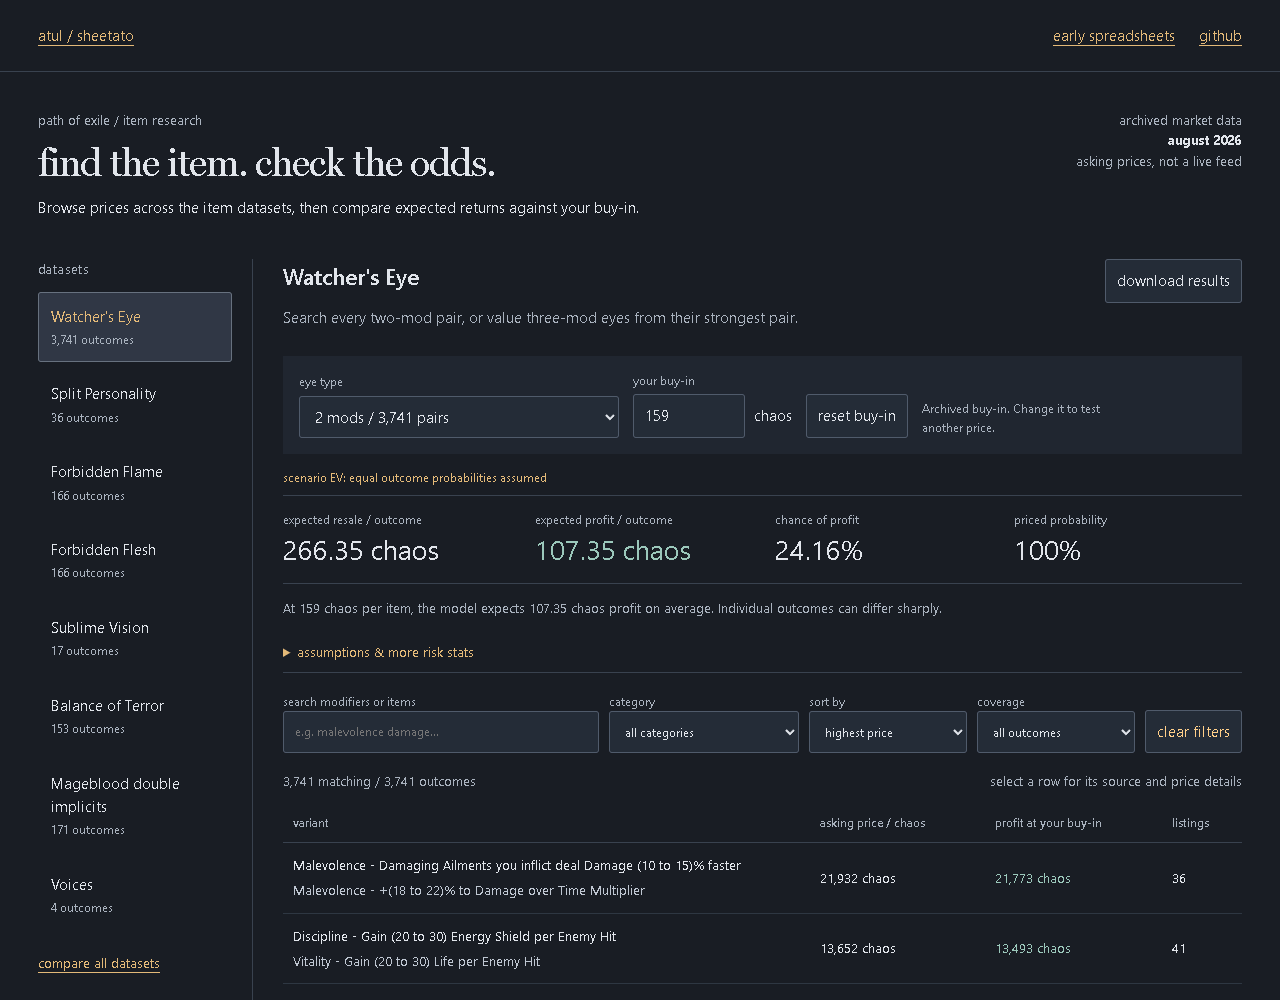
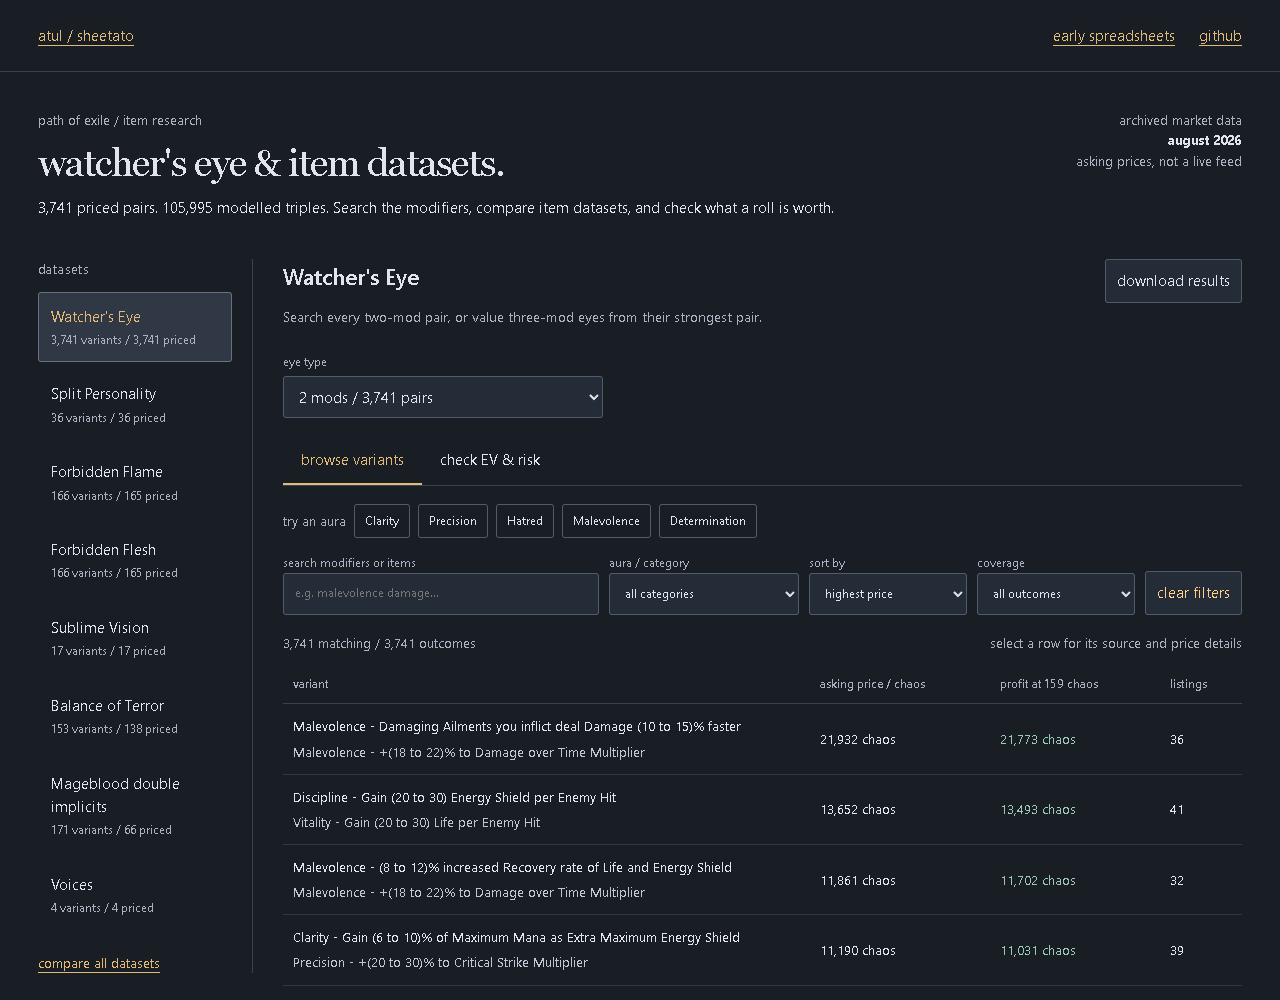
Make the project purpose and primary browsing workflow easier to find

diff --git a/examples/portfolio/index.html b/examples/portfolio/index.html
@@ -25,10 +25,10 @@
             <div class="heading">
                 <div>
                     <p class="eyebrow">path of exile / item research</p>
-                    <h1>find the item. check the odds.</h1>
+                    <h1>watcher's eye & item datasets.</h1>
                     <p>
-                        Browse prices across the item datasets, then compare
-                        expected returns against your buy-in.
+                        3,741 priced pairs. 105,995 modelled triples. Search the modifiers,
+                        compare item datasets, and check what a roll is worth.
                     </p>
                 </div>
                 <p class="archive">
@@ -55,7 +55,6 @@
                         </div>
                         <button id="export">download results</button>
                     </div>
-                    <div class="calculator">
                         <div id="mode-wrap">
                             <label for="mode">eye type</label
                             ><select id="mode">
@@ -67,6 +66,15 @@
                                 </option>
                             </select>
                         </div>
+                    <p id="error" role="alert"></p>
+                    <nav class="view-switch" aria-label="Dataset view">
+                        <button id="browse-view" aria-pressed="true">browse variants</button>
+                        <button id="risk-view" aria-pressed="false">check EV &amp; risk</button>
+                    </nav>
+                    <div id="risk-panel" hidden>
+                    <h3>what is one random outcome worth?</h3>
+                    <p class="help">Set your purchase price. Expected value (EV) is the average resale across all outcomes; expected profit subtracts your buy-in.</p>
+                    <div class="calculator">
                         <div>
                             <label for="buyin">your buy-in</label>
                             <div class="input-unit">
@@ -82,12 +90,11 @@
                         <button id="reset-cost">reset buy-in</button>
                         <p id="cost-note"></p>
                     </div>
-                    <p id="error" role="alert"></p>
                     <p id="model-label" class="model-label"></p>
                     <div id="metrics" class="metrics" aria-live="polite"></div>
                     <p id="interpretation"></p>
                     <details>
-                        <summary>assumptions & more risk stats</summary>
+                        <summary>probabilities, coverage & more risk stats</summary>
                         <p id="assumption"></p>
                         <div id="extra-stats"></div>
                         <p>
@@ -97,6 +104,9 @@
                             one-roll standard deviation, not annualised Sharpe.
                         </p>
                     </details>
+                    </div>
+                    <div id="browse-panel">
+                    <div id="quick-filters" aria-label="Try an aura"></div>
                     <div class="filters">
                         <label
                             >search modifiers or items<input
@@ -105,7 +115,7 @@
                                 placeholder="e.g. malevolence damage..."
                                 autocomplete="off" /></label
                         ><label
-                            >category<select id="group">
+                            >aura / category<select id="group">
                                 <option value="">all categories</option>
                             </select></label
                         ><label
@@ -142,7 +152,7 @@
                                     <th scope="col" id="price-heading">
                                         asking price
                                     </th>
-                                    <th scope="col">profit at your buy-in</th>
+                                    <th scope="col">profit at <span id="table-cost">archived buy-in</span></th>
                                     <th scope="col">listings</th>
                                 </tr>
                             </thead>
@@ -157,9 +167,10 @@
                         <button id="prev">previous</button
                         ><span id="page"></span><button id="next">next</button>
                     </div>
+                    </div>
                 </section>
             </div>
-            <section id="comparison">
+            <details id="comparison"><summary>compare dataset coverage and expected profit</summary>
                 <h2>which dataset do you want to explore?</h2>
                 <p>
                     Each row uses its archived buy-in and stated probability
@@ -179,7 +190,7 @@
                         <tbody id="compare"></tbody>
                     </table>
                 </div>
-            </section>
+            </details>
             <footer>
                 Item-price collection, probability models and risk calculations
                 by Atul Kanodia.

diff --git a/examples/portfolio/browser.css b/examples/portfolio/browser.css
@@ -485,3 +485,18 @@ footer {
         font-size: 12px;
     }
 }
+
+/* Keep the catalogue within reach; disclose calculations as a separate task. */
+[hidden] { display: none !important; }
+aside { align-self: start; position: sticky; top: 18px; }
+.view-switch { gap: 0; border-bottom: 1px solid var(--line); margin: 18px 0; }
+.view-switch button { background: transparent; border: 0; border-bottom: 2px solid transparent; border-radius: 0; padding: 12px 18px; }
+.view-switch button[aria-pressed="true"] { color: var(--accent); border-bottom-color: var(--accent); }
+#mode-wrap { margin: 14px 0; }
+#quick-filters { display: flex; align-items: center; flex-wrap: wrap; gap: 8px; margin-bottom: 16px; }
+#quick-filters span, .help { color: var(--muted); font-size: 13px; }
+#quick-filters button { background: transparent; padding: 5px 10px; min-height: 34px; font-size: 12px; }
+h3 { font-size: 19px; font-weight: 500; margin: 20px 0 8px; }
+#description { font-size: 14px; }
+#comparison summary { font-size: 17px; margin-bottom: 15px; }
+@media (max-width: 720px) { aside { position: static; } .view-switch button { padding: 12px; } }

diff --git a/tools/browser_audit.py b/tools/browser_audit.py
@@ -28,6 +28,12 @@ try:
         page.goto(url)
         page.wait_for_function('window.__datasets?.ready')
         assert page.evaluate('__datasets.count') == 3741
+        assert page.locator('#search').is_visible()
+        assert not page.locator('#metrics').is_visible()
+        page.locator('[data-aura=Clarity]').click()
+        assert 0 < page.evaluate('__datasets.filtered') < 3741
+        page.locator('#clear').click()
+        page.locator('#risk-view').click()
         assert page.locator('#metrics').is_visible()
         before=page.evaluate('__datasets.result.profit')
         page.locator('#buyin').fill('259')
@@ -36,6 +42,7 @@ try:
         assert page.locator('#error').inner_text()
         assert page.evaluate('__datasets.result') is None
         page.locator('#buyin').fill('259')
+        page.locator('#browse-view').click()
         page.locator('#search').fill('clarity precision')
         assert 0<page.evaluate('__datasets.filtered')<3741
         with page.expect_download() as dl:

diff --git a/README.md b/README.md
@@ -6,6 +6,14 @@ Search 3,741 priced Watcher's Eye pairs, filter by aura, and compare expected re
 
 ![Dataset browser](examples/portfolio/preview.png)
 
+## Start here
+
+1. Pick an item dataset in the left sidebar (the selector on mobile).
+2. **Browse variants**: search modifiers, tap an aura, sort prices or export your matches.
+3. **Check EV & risk**: enter a buy-in to see average resale, average profit and the probability of profit across the whole dataset.
+
+The Watcher's Eye selector switches between observed two-mod prices and modelled three-mod values. Filters never silently change the EV calculation.
+
 ## Explore the data
 
 - Watcher's Eye: all 3,741 priced pairs, plus derived three-mod combinations.
